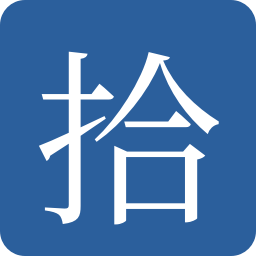
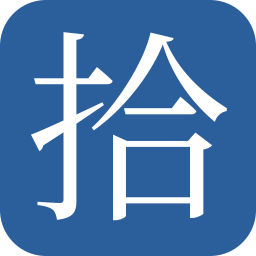
图标重绘：大字号超采样 + 更圆角，托盘改用静态资源加载
- make-icons.py：字号占比 0.60（四周留白充足）、圆角 0.18、垂直偏移上移
  校正视觉中心，4 倍超采样渲染后平滑缩到目标尺寸（大字醒目且边缘锐利）
- 托盘不再运行时绘制：tray.py 直接加载 icons/snaptext-64.png 静态资源，
  减少运行时依赖（不依赖字体/渲染）
- pack-deb.sh：把 icons/ 拷进 /opt/snaptext/，托盘在 deb 中也能加载
- AGENTS.md：补记图标静态化/托盘加载资源、tag 命名准则、依赖清单原则、
  打包方案演进、更新即沉淀等近期决策

diff --git a/make-icons.py b/make-icons.py
@@ -28,8 +28,15 @@ FG = QColor("#ffffff")
 CHAR = "拾"
 # 宋体 Black：笔画厚重、有书法感，小尺寸下也清晰，图标文字辨识度高。
 FONT_PATH = "/usr/share/fonts/TTF/NotoSerifCJK-Black.ttc"
-# 字号占边长的比例：比托盘默认更大（0.40→0.55），文字更饱满醒目。
-FONT_PT_RATIO = 0.55
+# 圆角占边长比例：0.18 更圆润，看着更柔和。
+CORNER_RATIO = 0.18
+# 字号占边长的比例：0.60，四周留白充足不顶边。
+FONT_PT_RATIO = 0.60
+# 超采样倍数：在 4 倍分辨率画布上画大字，再平滑缩到目标尺寸，
+# 既保持大字的视觉占比，又让边缘因超采样更干净锐利（抗锯齿）。
+SS_FACTOR = 4
+# 文字垂直偏移（占边长比例）：正值上移，校正视觉中心略微靠下的感觉。
+V_OFFSET_RATIO = 0.05
 OUT_DIR = Path(__file__).resolve().parent / "icons"
 
 # 缓存字体族名（运行时静态字体，仅打包/托盘加载一次）
@@ -47,18 +54,25 @@ def _char_font(size: int) -> QFont:
 
 
 def draw(size: int) -> QPixmap:
-    pm = QPixmap(size, size)
+    """超采样渲染：高分辨率画大字 → 平滑缩到目标尺寸。"""
+    ss = size * SS_FACTOR
+    pm = QPixmap(ss, ss)
     pm.fill(Qt.transparent)
     p = QPainter(pm)
     p.setRenderHint(QPainter.Antialiasing)
     p.setBrush(BG)
     p.setPen(Qt.NoPen)
-    p.drawRoundedRect(0, 0, size, size, int(size * 0.1), int(size * 0.1))
+    r = int(ss * CORNER_RATIO)
+    p.drawRoundedRect(0, 0, ss, ss, r, r)
     p.setPen(FG)
-    p.setFont(_char_font(size))
-    p.drawText(pm.rect(), Qt.AlignCenter, CHAR)
+    p.setFont(_char_font(ss))
+    # 校正视觉中心：把绘制区域整体上移 V_OFFSET_RATIO*ss（正值上移）
+    rect = pm.rect()
+    rect.moveTop(rect.top() - int(ss * V_OFFSET_RATIO))
+    p.drawText(rect, Qt.AlignCenter, CHAR)
     p.end()
-    return pm
+    # 平滑缩到目标尺寸（超采样缩小，边缘干净）
+    return pm.scaled(size, size, Qt.IgnoreAspectRatio, Qt.SmoothTransformation)
 
 
 def _png_bytes(img: QImage) -> bytes:

diff --git a/tray.py b/tray.py
@@ -1,53 +1,22 @@
 """拾字 SnapText —— 独立托盘模块（常驻托盘图标替代小窗口）。
 
 只含 Qt/UI：QSystemTrayIcon + 右键菜单（退出）。热键/OCR 逻辑不掺进来。
+图标加载自项目内置资源 `icons/`（随仓库提交，不运行时生成）。
 """
-from PySide6.QtCore import Qt
-from PySide6.QtGui import (
-    QColor,
-    QFont,
-    QFontDatabase,
-    QIcon,
-    QPainter,
-    QPixmap,
-)
+from pathlib import Path
+
+from PySide6.QtGui import QIcon
 from PySide6.QtWidgets import QApplication, QMenu, QSystemTrayIcon
 
 APP_NAME = "拾字 SnapText"
 
-# 与 make-icons.py 保持一致：宋体 Black、字号占边长 0.55，托盘/deb 图标同款。
-_BG = QColor("#2b5f9c")
-_FG = QColor("#ffffff")
-_CHAR = "拾"
-_FONT_PATH = "/usr/share/fonts/TTF/NotoSerifCJK-Black.ttc"
-_FONT_PT_RATIO = 0.55
-_font_family = None
-
-
-def _char_font(size: int) -> QFont:
-    global _font_family
-    if _font_family is None:
-        fid = QFontDatabase.addApplicationFont(_FONT_PATH)
-        _font_family = QFontDatabase.applicationFontFamilies(fid)[0]
-    f = QFont(_font_family)
-    f.setPointSizeF(size * _FONT_PT_RATIO)
-    return f
+# 托盘图标：直接加载已提交的静态资源（icons/snaptext-64.png），不运行时生成。
+_ICON_PATH = Path(__file__).resolve().parent / "icons" / "snaptext-64.png"
 
 
 def make_icon() -> QIcon:
-    """程序化生成托盘图标（蓝底圆角方块 + 白"拾"字），无外部资源文件。"""
-    pm = QPixmap(64, 64)
-    pm.fill(Qt.transparent)
-    p = QPainter(pm)
-    p.setRenderHint(QPainter.Antialiasing)
-    p.setBrush(_BG)
-    p.setPen(Qt.NoPen)
-    p.drawRoundedRect(0, 0, 64, 64, 7, 7)
-    p.setPen(_FG)
-    p.setFont(_char_font(64))
-    p.drawText(pm.rect(), Qt.AlignCenter, _CHAR)
-    p.end()
-    return QIcon(pm)
+    """从静态资源加载托盘图标（若缺失退回空图标，不崩溃）。"""
+    return QIcon(str(_ICON_PATH))
 
 
 class TrayIcon(QSystemTrayIcon):

diff --git a/AGENTS.md b/AGENTS.md
@@ -11,9 +11,13 @@
 - **依赖走系统/全局 site-packages，无 vendor、无项目内 venv**：
   `python3 -m pip install -r requirements.txt` 装一次即可（PySide6 + OCR 链）。
   `requirements.txt` 用新版 unified `rapidocr`（3.x，旧 rapidocr-onnxruntime 停更）。
-- `_bootstrap.py`：deb 产物里把项目内置 `lib/`（无系统包的 rapidocr/shapely/
-  pyclipper/omegaconf/antlr4）插到 `sys.path`；源码直跑时 `lib/` 不存在 = 空操作，
+- `_bootstrap.py`：deb 产物里把项目内置 `lib/`（无系统包的 rapidocr/pyclipper/
+  omegaconf/antlr4）插到 `sys.path`；源码直跑时 `lib/` 不存在 = 空操作，
   走系统包。`ocr.py` / `snaptext.py` 顶部 `import _bootstrap; _bootstrap.activate()`。
+- **依赖清单原则**：`requirements.txt` **只列直接依赖**（rapidocr/onnxruntime/
+  PySide6/numpy<3）。rapidocr 会自动拉齐全部传递依赖（pyclipper/opencv/numpy/
+  shapely/pyyaml/pillow/six/tqdm/omegaconf/requests/colorlog），**不要逐个列出**；
+  onnxruntime 是推理引擎（rapidocr 不自动带）须显式装。numpy<3 是 rapidocr 约束。
 
 ## 模型（本地 onnx，随仓库打包）
 
@@ -57,11 +61,15 @@
   `_on_ocr_done`）统一走 `_start_next_or_idle()` 自动执行下一个。**启动预热 onnx
   （2026-08-12）**：`main` 里后台线程调 `ocr._get_engine()` 提前完成模型加载
   （~0.8s），首次按键 OCR 即快；预热线程池与后续 OCR 线程共享进程级单例，无额外开销。
-- **`tray.py`**：`TrayIcon`（程序化图标无资源文件），右键退出、左键提示热键、
-  `notify(title, msg)` 非阻塞气泡。热键展示文案由入口传入（跟随 config.py 改热键）。
+- **`tray.py`**：`TrayIcon`（图标加载静态资源 `icons/snaptext-64.png`，与 deb
+  同款），右键退出、左键提示热键、`notify(title, msg)` 非阻塞气泡。热键展示文案
+  由入口传入（跟随 config.py 改热键）。
 - **`config.py` / `_config.py`（2026-08-12）**：`config.py` 是**全注释配置模板**
   （不改=现状）；`_config.py` 只依赖标准库，import 时 ast 解析 config.py 收集
   白名单内顶层赋值，未覆盖项用内置默认。见「配置」节。
+- **`_bootstrap.py`**：deb 产物依赖引导（把 `lib/` 插到 sys.path，源码直跑=空操作）。
+- **`make-icons.py`**：程序化生成 `icons/`（png 多尺寸 + ico，宋体 Black 拾字），
+  产物随仓库提交，**CI 不生成**（见「deb 打包」节）。
 
 数据流：热键(X线程) → 信号(GUI线程) → `start_select` 抓全屏 → Selector 拉框 →
 存 png → 复制图片 / QThread 后台 OCR → 存 txt → 复制文本 → 托盘气泡。
@@ -89,6 +97,11 @@
   带 sleep 才稳定）。
 - **踩坑即沉淀**：每修一个非显而易见的问题，把结论写进 AGENTS.md（本文件即"踩坑
   日志"），同时作为 git commit message。
+- **更新即沉淀（2026-08-13 补）**：不只踩坑要记，**任何非平凡的改动/决策/演进都
+  要同步写进 AGENTS.md**——包括依赖变更、打包方案选择、模型版本取舍、目录/接口
+  增删、需求来回（试过又放弃的方案）。原则：**改了什么，AGENTS.md 就要跟着对得上**，
+  否则下次别人（或你自己）读文档会以为代码还是旧行为。改完顺手 `git diff` 对照，
+  确认文档描述与代码一致。
 - **清理测试残留**：`pkill -9 -f 'snaptext[.]py'`（用 `[.]` 转义避免 pkill 匹配到
   自身命令；注意别在命令里再写裸 `snaptext.py` 字样）。
 - **单实例测试**：`~/.snaptext.lock` 持锁为唯一实例；清数据目录（`~/.snaptext`）
@@ -202,12 +215,25 @@
   打包 shapely（省 ~10MB，目标机也无需系统 shapely）。改 rapidocr 版本时需重验此 patch。
 - **colorlog 处理**：rapidocr 的 log.py 仅用于日志着色，打包时替换为标准库 logging
   （完整重写，非 sed 补丁——只注释 import 会留 `colorlog.ColoredFormatter` 报错）。
-- **图标静态化（2026-08-12）**：`icons/`（png 多尺寸 + ico，托盘同款宋体 Black）
-  随仓库提交，打包时直接拷贝，**CI 不生成图标**（少一个故障点）。需重画时跑
-  `QT_QPA_PLATFORM=offscreen python3 make-icons.py` 并提交新 icons/。
-- **Depends 按发行版选包名**：`SNAPTEXT_DEPS` 环境变量覆盖，否则读 `/etc/os-release`
-  的 ID 选 AOSC（无 python3- 前缀）或 Debian 系（python3-*）命名。
-- 版本号：tag 触发 CI 时取 `GITHUB_REF_NAME`（去 v），本地跑回退当前时间。
+- **图标静态化（2026-08-12）**：`icons/`（png 多尺寸 + ico，蓝底圆角 + 宋体 Black
+  "拾"字）随仓库提交，打包时直接拷贝，**CI 不生成图标**（少一个故障点）。
+  **托盘也加载静态资源**（tray.py 读 `icons/snaptext-64.png`，不运行时绘制）。
+  需重画时跑 `QT_QPA_PLATFORM=offscreen python3 make-icons.py` 并提交新 icons/。
+  样式参数（圆角/字号/垂直偏移/超采样）见 make-icons.py 顶部常量。
+- **Depends 跨发行版 OR 兼容（2026-08-13）**：同一依赖不同发行版包名不同——
+  AOSC 无 `python3-` 前缀（pyside6/opencv/numpy...），Debian/Ubuntu 是
+  `python3-*` 拆分名。用 deb 的 OR 关系 `a | b`（每项满足其一即可）让一个 deb
+  同时被 AOSC 与 Debian/Ubuntu 识别，避免"ubuntu 构建的 deb 装到 AOSC 报依赖
+  未满足"。例：`pyside6 | python3-pyside6.qtgui`。`SNAPTEXT_DEPS` 仍可完全覆盖。
+- **打包方案演进（2026-08-12→13，别回退）**：最初试过官方 PyInstaller 全自包含
+  deb，但 onedir 实测 ~350-511MB（含 PySide6/opencv/onnxruntime 全部依赖），
+  太大放弃。改用**最小 deb**（源码+models+无系统包依赖，~27MB），PySide6 等走
+  系统包。开发也放弃 vendor 内化，改系统/全局依赖。**原则：产物体积优先于自包含**。
+- **tag 命名准则（2026-08-13）**：tag 触发 CI 时版本取 `GITHUB_REF_NAME`（去 `v`），
+  本地跑回退当前时间。**tag 必须手动打成 `vYYYY.MM.DD.HHMM`（10 位、含分钟）**，
+  例：`v2026.08.13.1505` = 2026-08-13 **15:05（下午 3 点 5 分）**。HHMM 是 24 小时制，
+  用 15xx/2xxx 这种无歧义时刻举例，避免 `0021` 被误读为"凌晨 00:21"。
+  不要打缺分钟的 tag（如 `v2026.08.13.1`）——会发布出无分钟的错误版本号。
 - **模型文件名必须保留官方原名**（PP-OCRv6_det_small.onnx / PP-OCRv6_rec_small.onnx /
   ch_PP-LCNet_x0_25_textline_ori_cls_mobile.onnx），勿自定义改名。
 
